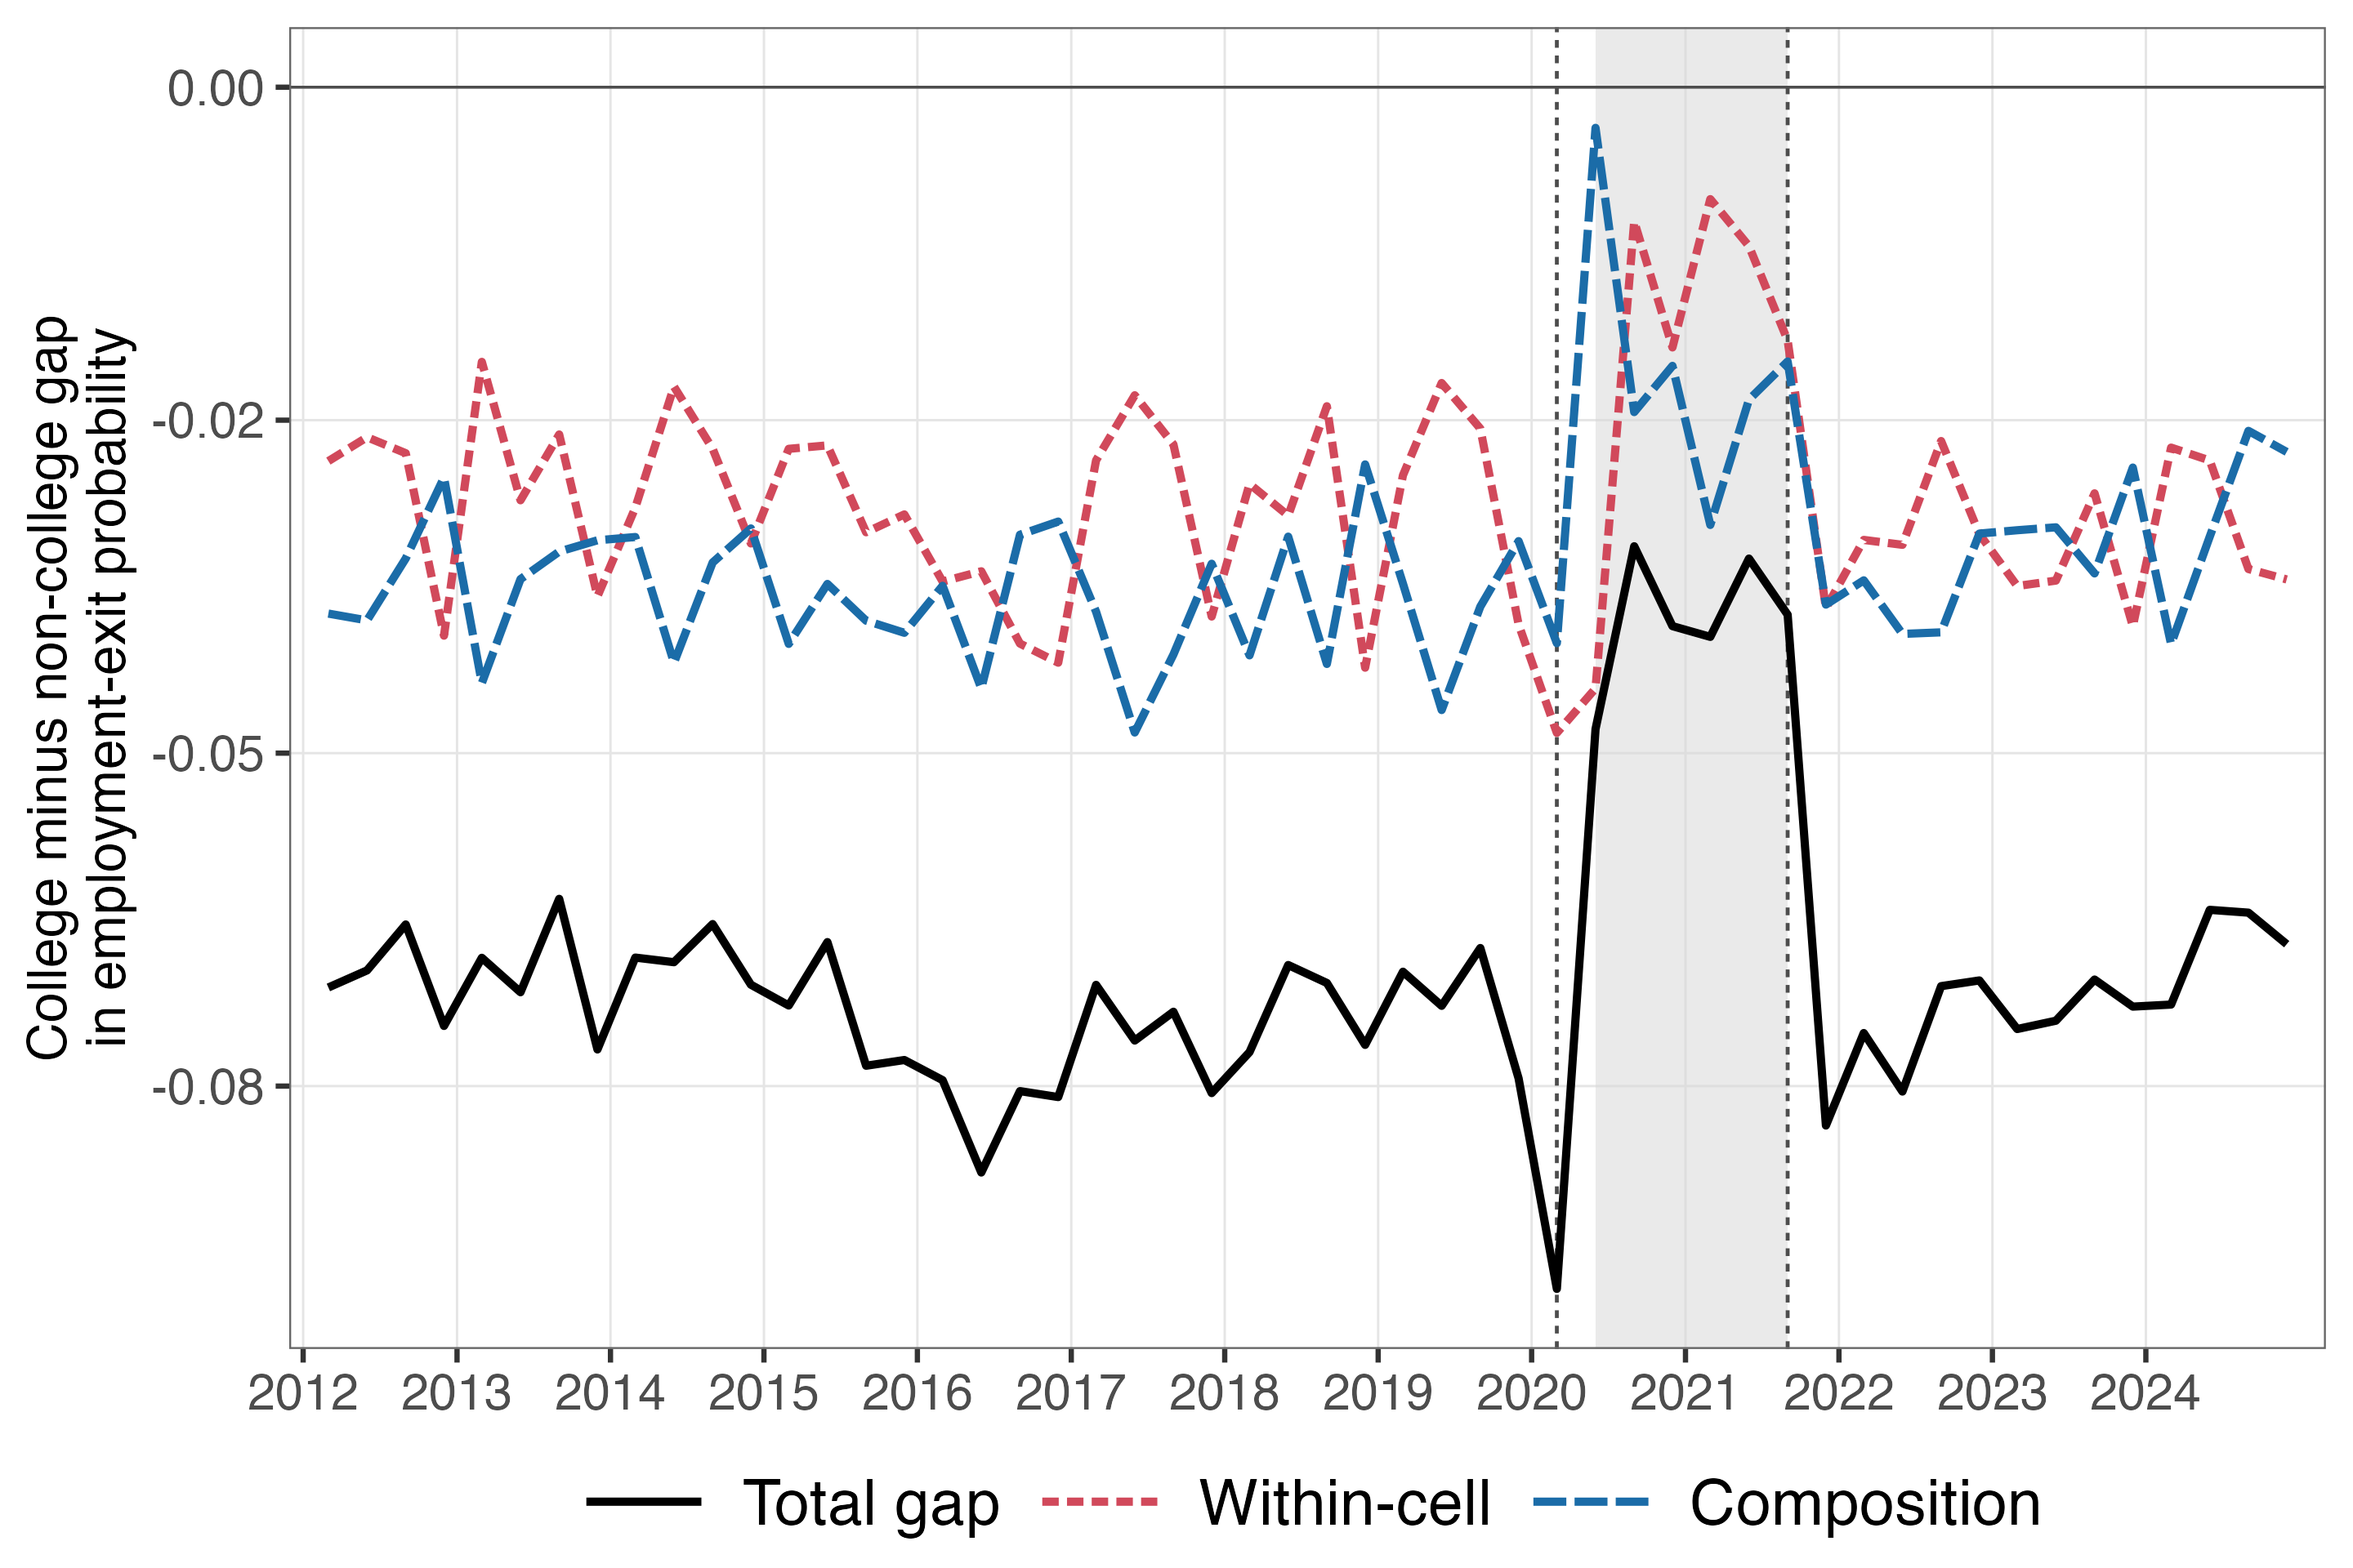
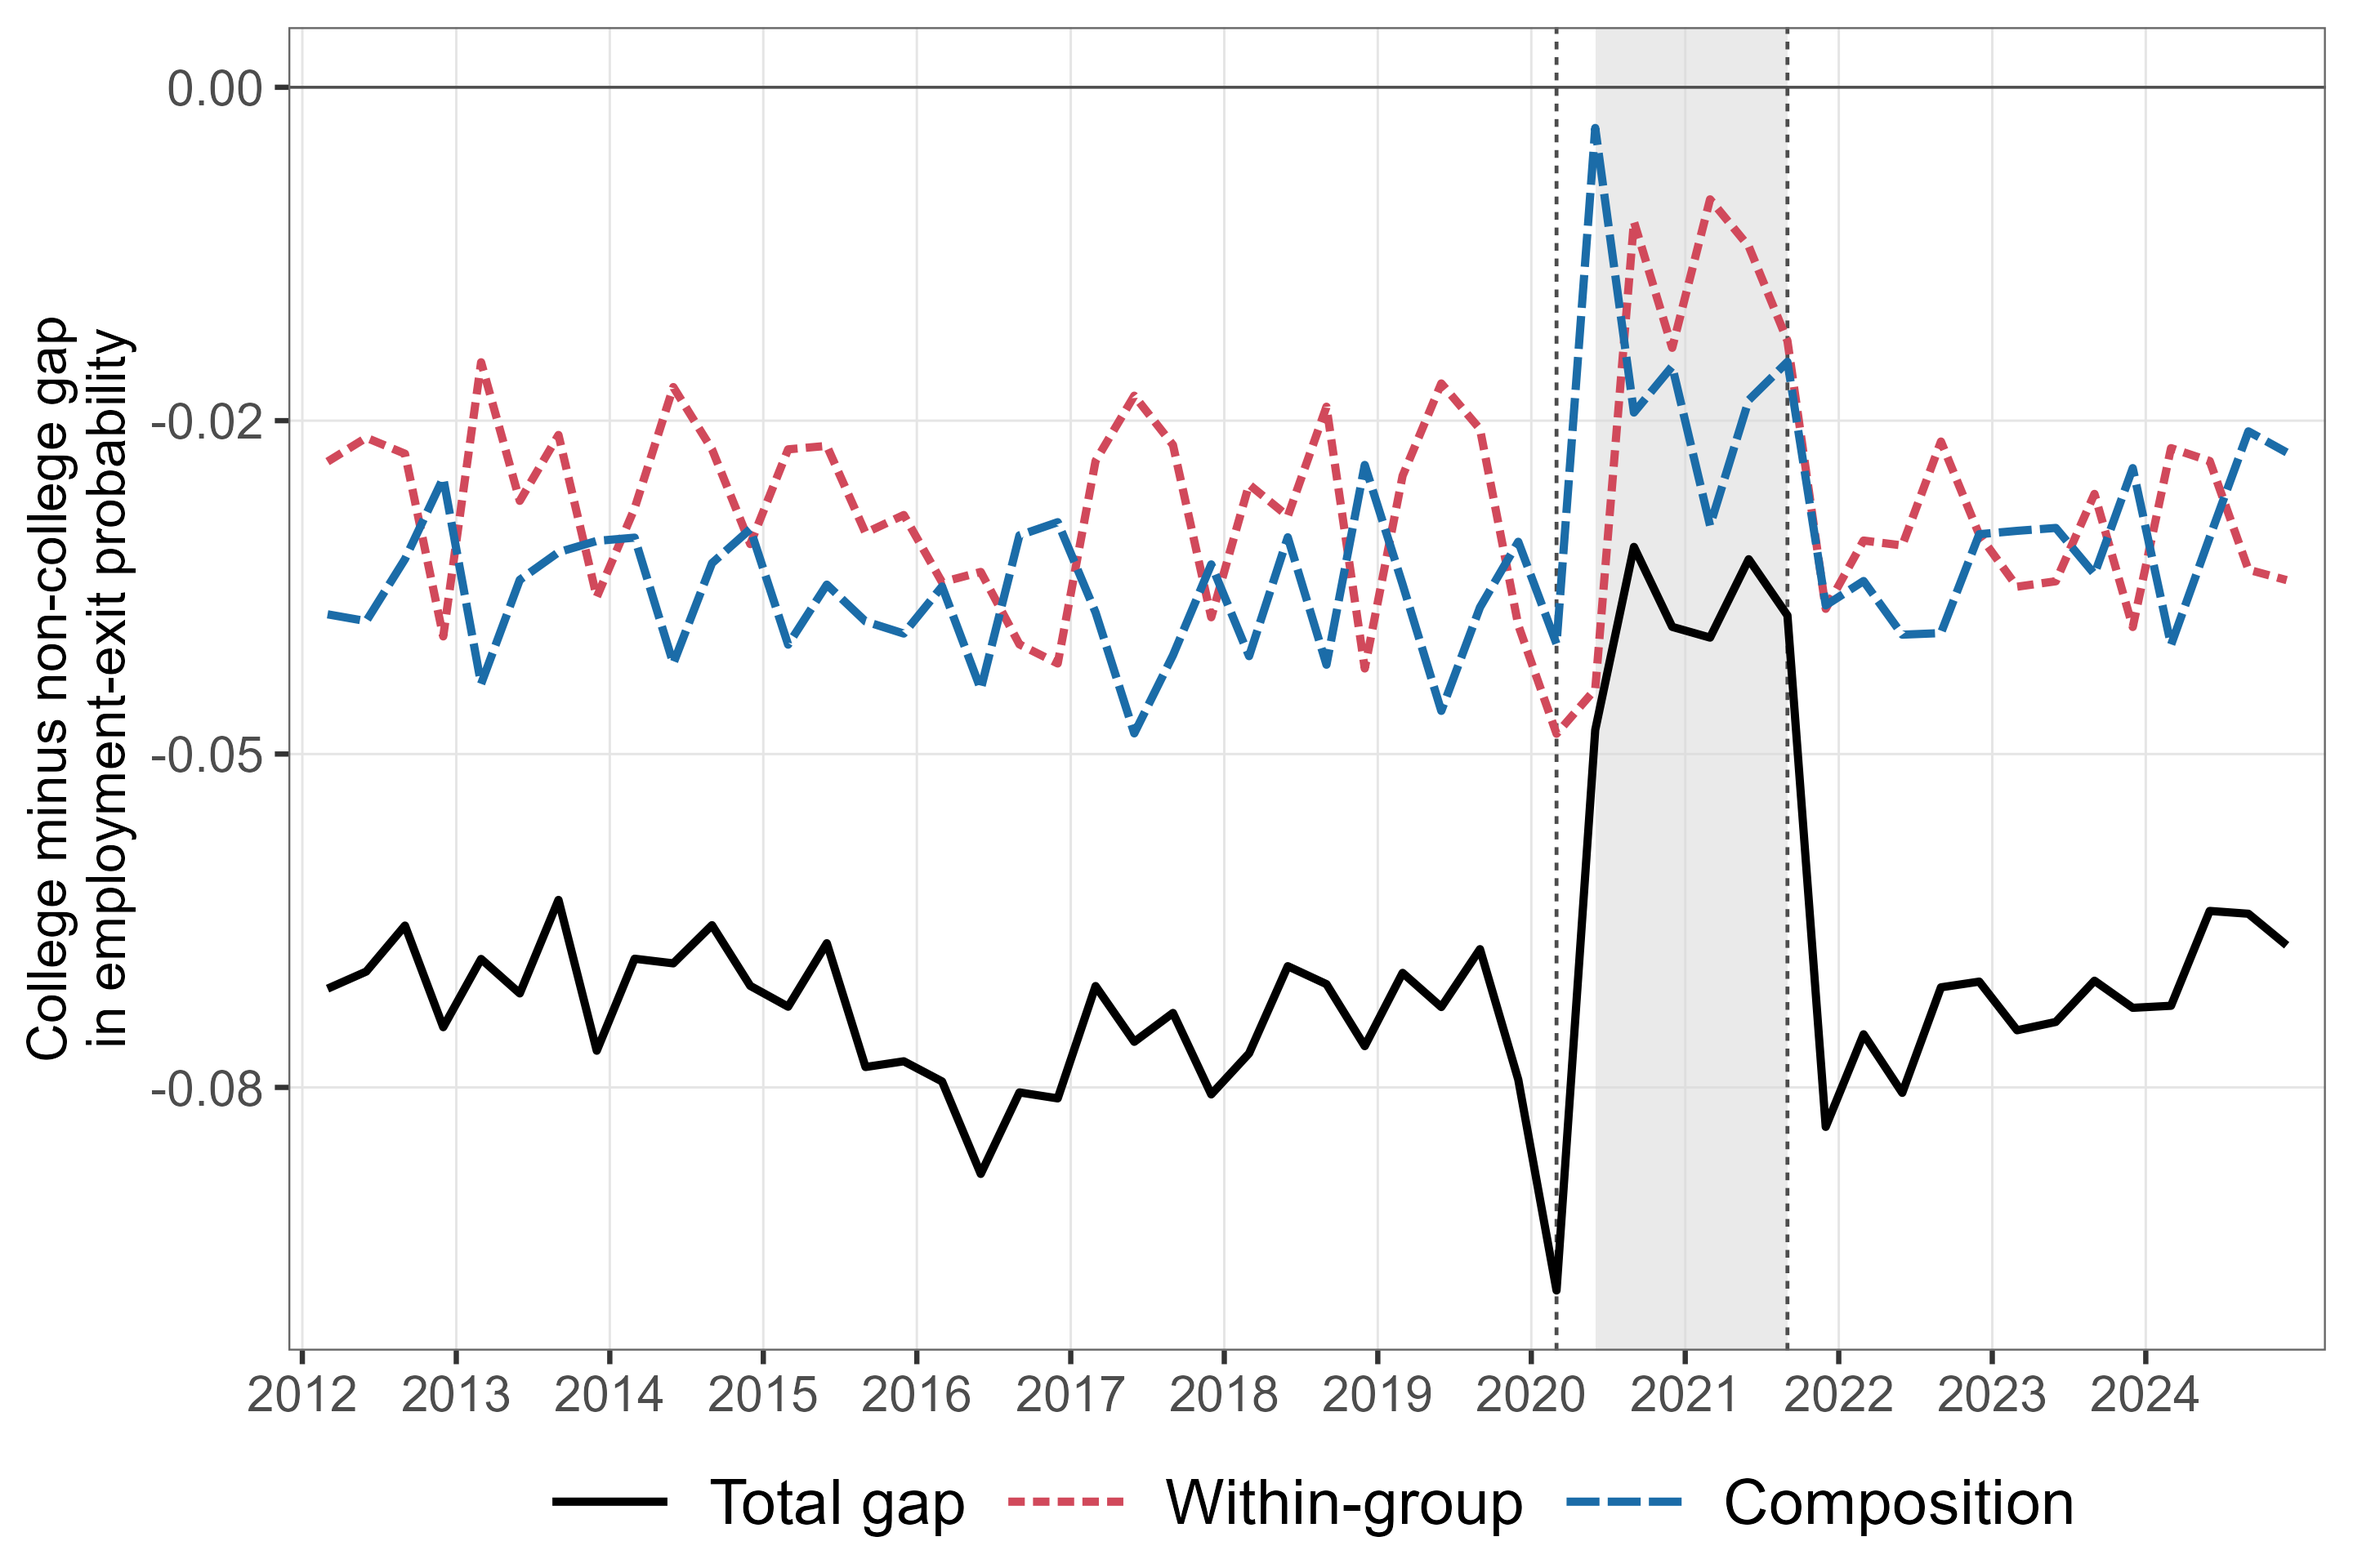
Relabel decomposition tables and figure: cell -> job group
The language pass of 180c18f renamed "cell" to "job group" throughout the
prose, but analysis/code/06_decomposition.R still generated "cell" /
"Within-cell" in the caption, column headers, footnote text and Figure 5
legend of tab_decomposition.tex and tab_decomp_variants.tex. The paper
carried a bridge clause at the partition's definition ("the tables label
them cells") to paper over the mismatch, per Fredie's comment.

Renamed the reader-facing strings in 06_decomposition.R to "job group" /
"Within-group" and reran it. A diff of the regenerated tables shows only
label text changed: every point estimate, interval and the reallocation
index (0.00349 / 0.00047) are unchanged. Removed the now-unneeded bridge
clause in paper.tex. Left decomp_cells(), cell_vars and other internal R
names alone -- they are not reader-facing -- and left the unrelated "cell"
usages in 05_heterogeneity.R (a table cell) and 11_overlap_weights.R (the
propensity-weighting explanation) as they were.

Also registers this machine (user "FADE Concursos") in _config.R's ROOT/
DROPBOX switches, needed to run the pipeline here for the first time.

diff --git a/analysis/output/tables/tab_decomposition.tex b/analysis/output/tables/tab_decomposition.tex
@@ -1,14 +1,14 @@
 \begin{table}[H]
 \centering
-\caption{Composition versus within-cell decomposition of the education gap}
+\caption{Composition versus within-group decomposition of the education gap}
 \label{tab:decomposition}
 \begin{threeparttable}
 \begin{tabular}{lcccc}
 \toprule
-& Total gap & Composition & Within-cell & Within-cell \\
+& Total gap & Composition & Within-group & Within-group \\
 Period & $\Delta^{\mathrm{raw}}_q$ & component & component & share (\%) \\
 \midrule
-\multicolumn{5}{l}{\textit{Cells: formality $\times$ sector $\times$ occupation (100 cells)}} \\
+\multicolumn{5}{l}{\textit{Job groups: formality $\times$ sector $\times$ occupation (100 job groups)}} \\
 \quad Pre-pandemic & -0.069$^{***}$ & -0.038$^{***}$ & -0.031$^{***}$ & 44.9 \\
  & & [-0.041, -0.035] & [-0.034, -0.028] & \\
 \quad Onset & -0.090 & -0.042 & -0.048 & 53.7 \\
@@ -17,7 +17,7 @@ Period & $\Delta^{\mathrm{raw}}_q$ & component & component & share (\%) \\
 \quad Post-pandemic & -0.069$^{***}$ & -0.035$^{***}$ & -0.034$^{***}$ & 49.5 \\
  & & [-0.039, -0.030] & [-0.038, -0.029] & \\
 \addlinespace
-\multicolumn{5}{l}{\textit{Cells: formality $\times$ position $\times$ sector $\times$ occupation (382 cells)}} \\
+\multicolumn{5}{l}{\textit{Job groups: formality $\times$ position $\times$ sector $\times$ occupation (382 job groups)}} \\
 \quad Pre-pandemic & -0.069$^{***}$ & -0.042$^{***}$ & -0.028$^{***}$ & 39.8 \\
  & & [-0.044, -0.039] & [-0.031, -0.024] & \\
 \quad Onset & -0.090 & -0.052 & -0.038 & 42.2 \\
@@ -28,7 +28,7 @@ Period & $\Delta^{\mathrm{raw}}_q$ & component & component & share (\%) \\
 \bottomrule
 \end{tabular}
 \begin{tablenotes}[flushleft]\footnotesize
-\item Notes: The total gap is the survey-weighted difference in the raw employment-exit rate between workers with and without a college degree. The composition component holds each cell's non-college exit rate fixed and varies only the two groups' allocation across cells; the within-cell component holds the college allocation fixed and varies only the exit rates inside cells. Period figures are averages of the quarterly components weighted by the quarter's share of the total survey weight. A cell is a combination of the listed variables that some worker occupies: formality is the two-way formal / informal split, sector the five broad activity groups, occupation the ten COD major groups and position the eight labour-market categories of Table~\ref{tab:heterogeneity} (private employee, self-employed, employer and public sector, each formal or informal). The cell counts are the combinations actually observed; the remaining 32 and 212 combinations the crossings allow are empty. Cells occupied by only one education group hold 0.2\% and 0.6\% of the survey weight under the two definitions; they have no counterfactual rate for the absent group, so their whole contribution falls on the within-cell component. Brackets report 95\% percentile intervals from 2000 replications of a two-way pigeonhole bootstrap that resamples primary sampling units and quarters independently. Stars denote $^{*}p<0.10$, $^{**}p<0.05$, $^{***}p<0.01$ on the bootstrap standard error of the entry. The onset is a single quarter, for which a bootstrap over quarters carries no information, so it is reported without an interval. Periods are pre-pandemic 2012Q1--2019Q4, onset 2020Q1, mid-pandemic 2020Q2--2021Q3 and post-pandemic 2021Q4--2024Q4.
+\item Notes: The total gap is the survey-weighted difference in the raw employment-exit rate between workers with and without a college degree. The composition component holds each job group's non-college exit rate fixed and varies only the two groups' allocation across job groups; the within-group component holds the college allocation fixed and varies only the exit rates inside job groups. Period figures are averages of the quarterly components weighted by the quarter's share of the total survey weight. A job group is a combination of the listed variables that some worker occupies: formality is the two-way formal / informal split, sector the five broad activity groups, occupation the ten COD major groups and position the eight labour-market categories of Table~\ref{tab:heterogeneity} (private employee, self-employed, employer and public sector, each formal or informal). The job-group counts are the combinations actually observed; the remaining 32 and 212 combinations the crossings allow are empty. Job groups occupied by only one education group hold 0.2\% and 0.6\% of the survey weight under the two definitions; they have no counterfactual rate for the absent group, so their whole contribution falls on the within-group component. Brackets report 95\% percentile intervals from 2000 replications of a two-way pigeonhole bootstrap that resamples primary sampling units and quarters independently. Stars denote $^{*}p<0.10$, $^{**}p<0.05$, $^{***}p<0.01$ on the bootstrap standard error of the entry. The onset is a single quarter, for which a bootstrap over quarters carries no information, so it is reported without an interval. Periods are pre-pandemic 2012Q1--2019Q4, onset 2020Q1, mid-pandemic 2020Q2--2021Q3 and post-pandemic 2021Q4--2024Q4.
 \end{tablenotes}
 \end{threeparttable}
 \end{table}

diff --git a/analysis/output/tables/tab_decomp_variants.tex b/analysis/output/tables/tab_decomp_variants.tex
@@ -7,7 +7,7 @@
 \toprule
 & \multicolumn{2}{c}{Pre-pandemic} & \multicolumn{2}{c}{Mid-pandemic} \\
 \cmidrule(lr){2-3}\cmidrule(lr){4-5}
-Convention & Composition & Within-cell & Composition & Within-cell \\
+Convention & Composition & Within-group & Composition & Within-group \\
 \midrule
 Baseline (non-college rates, college shares) & -0.038 & -0.031 & -0.021 & -0.019 \\
 College rates as reference & -0.043 & -0.026 & -0.020 & -0.020 \\
@@ -20,7 +20,7 @@ Common support only & -0.038 & -0.031 & -0.021 & -0.019 \\
 \bottomrule
 \end{tabular}
 \begin{tablenotes}[flushleft]\footnotesize
-\item Notes: Cells are formality $\times$ sector $\times$ occupation throughout. The baseline row is the convention of equation~\eqref{eq:decomp}; the next two replace it with the opposite and the symmetric convention. The last row keeps only cells that both education groups occupy, renormalising each group's shares within the quarter, so its total gap differs from the others by the amount the dropped cells carried. The reallocation index is $R_g = \sum_k (s_{gk,\text{mid}} - s_{gk,\text{pre}})\bar m_{k,\text{pre}}$, with $\bar m_{k,\text{pre}}$ the pre-pandemic exit rate of cell $k$ pooled across groups: it holds rates fixed and lets only allocation move, so $R_g > 0$ means group $g$ shifted towards cells that were riskier before the pandemic. Periods are pre-pandemic 2012Q1--2019Q4, onset 2020Q1, mid-pandemic 2020Q2--2021Q3 and post-pandemic 2021Q4--2024Q4.
+\item Notes: Job groups are formality $\times$ sector $\times$ occupation throughout. The baseline row is the convention of equation~\eqref{eq:decomp}; the next two replace it with the opposite and the symmetric convention. The last row keeps only job groups that both education groups occupy, renormalising each group's shares within the quarter, so its total gap differs from the others by the amount the dropped job groups carried. The reallocation index is $R_g = \sum_k (s_{gk,\text{mid}} - s_{gk,\text{pre}})\bar m_{k,\text{pre}}$, with $\bar m_{k,\text{pre}}$ the pre-pandemic exit rate of job group $k$ pooled across groups: it holds rates fixed and lets only allocation move, so $R_g > 0$ means group $g$ shifted towards job groups that were riskier before the pandemic. Periods are pre-pandemic 2012Q1--2019Q4, onset 2020Q1, mid-pandemic 2020Q2--2021Q3 and post-pandemic 2021Q4--2024Q4.
 \end{tablenotes}
 \end{threeparttable}
 \end{table}

diff --git a/latex/paper.tex b/latex/paper.tex
@@ -523,7 +523,7 @@ the two components can be interpreted separately. We write that gap
 $\Delta^{\mathrm{raw}}_q$, to distinguish it
 from the adjusted gap $\widehat\Delta_q$ of equation~\eqref{eq:margins}. Let $k$
 index job groups defined by
-formality, sector and occupation (the tables label them cells), let $s_{gkq}$ be
+formality, sector and occupation, let $s_{gkq}$ be
 the survey-weighted share of
 education group $g$ in job group $k$ in quarter $q$, and let $m_{gkq}$ be the
 exit rate of that education group inside it. Then
